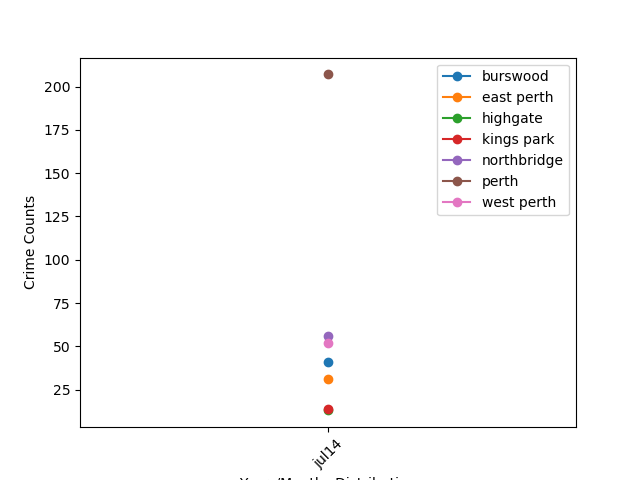
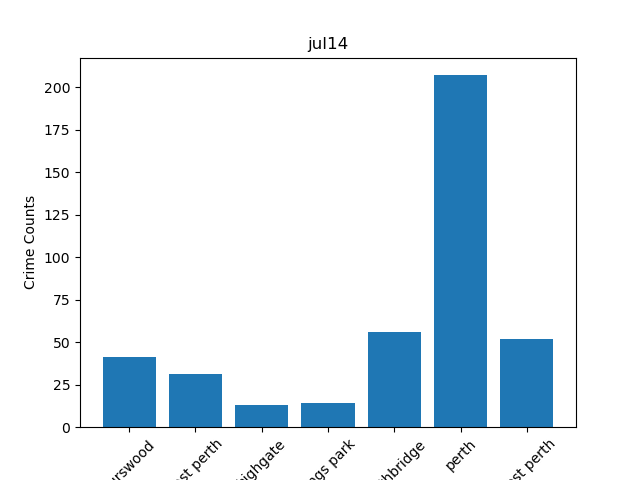
help

diff --git a/filter.py b/filter.py
@@ -274,32 +274,39 @@ def statistics(filtered, unfiltered, mrange):
         plt.xticks(rotation=45)
         plt.xlabel('Years/Months Distribution')
         plt.ylabel('Crime Counts')
-
     elif len(year_list) <= 5:
         #if possible, highlight queried distributions????
         #plot based on months (up to 60 months)
-        for i in range(len(name_list)):
-            values = dataframe.loc[dataframe['name'] == name_list[i]]
-            extracted_values = values[values.columns[2:]].values.tolist()
-            plot_values = []
-            for i in extracted_values:
-                plot_values += i
-            months = []
-            for i in range(len(year_list)):
-                months += values[values.columns[2:]].columns.tolist()
-            #print(extracted_values)
-            #print(plot_values)
-            #print(months)
-            count = 0
-            for i in year_list:
-                for j in range(len(values[values.columns[2:]].columns.tolist())):
-                    months[count] += str(i)[2:]
-                    count += 1
-            plt.plot(months, plot_values, marker='o')
-        plt.legend(name_list)
-        plt.xticks(rotation=45)
-        plt.xlabel('Years/Months Distribution')
-        plt.ylabel('Crime Counts')
+        if '+' in mrange:
+            for i in range(len(name_list)):
+                values = dataframe.loc[dataframe['name'] == name_list[i]]
+                extracted_values = values[values.columns[2:]].values.tolist()
+                plot_values = []
+                for i in extracted_values:
+                    plot_values += i
+                months = []
+                for i in range(len(year_list)):
+                    months += values[values.columns[2:]].columns.tolist()
+                #print(extracted_values)
+                #print(plot_values)
+                #print(months)
+                count = 0
+                for i in year_list:
+                    for j in range(len(values[values.columns[2:]].columns.tolist())):
+                        months[count] += str(i)[2:]
+                        count += 1
+                plt.plot(months, plot_values, marker='o')
+            plt.legend(name_list)
+            plt.xticks(rotation=45)
+            plt.xlabel('Years/Months Distribution')
+            plt.ylabel('Crime Counts')
+        if '+' not in mrange:
+            temp = dataframe.groupby('name')[mrange].sum()
+            plt.bar(name_list, list(temp))
+            plt.xticks(rotation=45)
+            plt.xlabel('Locations')
+            plt.ylabel('Crime Counts')
+            plt.title(mrange + str(year_list)[3:-1])
 
     #plt.show()
     
